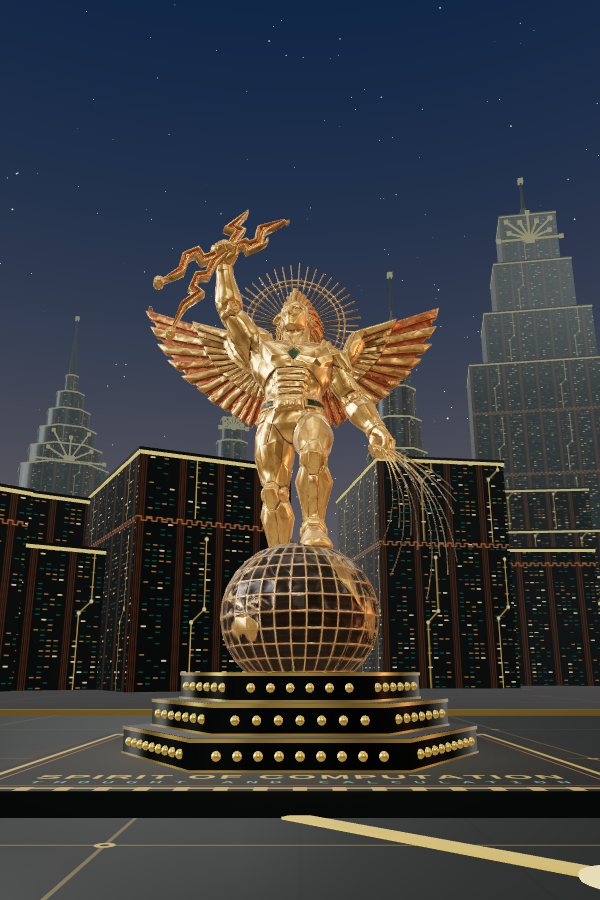
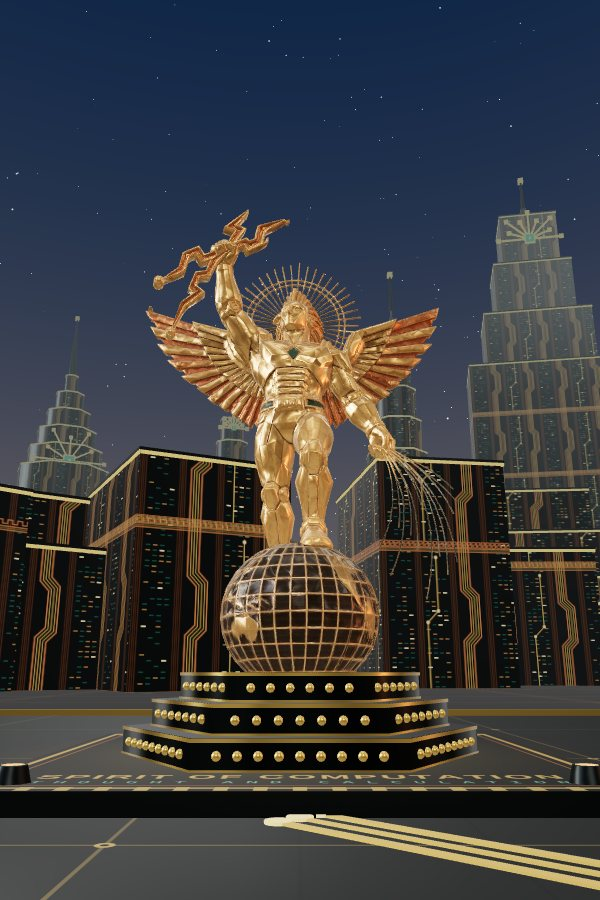
Night lamps, emerald chips on the crowns, Greek key friezes
- Statues: floodlamps at the foot, as in the Knowledge Press forest: off by
  day, fading in through dusk; lit strongest at the base and fading up the
  figure. Their studio reflections and the entrance fill dim after dark, and
  each pad gets four lamp fixtures and a pool of light that follow the sky.
- Every boot-sun crown on the towers has an emerald chip at its heart: a
  solder-green die in a gold frame with a gold core.
- Motif 14, the key route: facades now carry a square-wave rule, a running
  Greek key, or a double key routed as a pair, a whole number of keys to the
  tile so it runs unbroken round a tower.

Claude-Session: https://claude.ai/code/session_01A6Jj3xDDNxQ4ycFxda9Tv7

diff --git a/web/src/scene/Statue.tsx b/web/src/scene/Statue.tsx
@@ -30,19 +30,42 @@ function plinthHeight(s: Spirit): number {
  * ground and fading up the figure. No real lights, so nine statues cost no
  * more to shade than one.
  */
+/**
+ * The night lamps, as in the Knowledge Press forest: off by day, fading in
+ * through dusk, full once the sky is dark. One shared uniform, so every
+ * statue's floodlighting follows the sky at once.
+ */
+export const NIGHT_LAMP = { value: 0 };
+/** Statue materials whose reflections dim at night, so the lamps carry them. */
+const LIT = new Set<MeshStandardMaterial>();
+
+/** Follows the sky: the lamps come up as it darkens and the studio reflections go down. */
+export function NightLamps() {
+  const daylight = useStore((st) => st.sky.daylight);
+  useEffect(() => {
+    NIGHT_LAMP.value = Math.min(1, Math.max(0, (0.6 - daylight) / 0.45));
+    for (const m of LIT) m.envMapIntensity = (m.userData.envDay ?? 1.1) * (0.3 + 0.7 * daylight);
+  }, [daylight]);
+  return null;
+}
+
 function uplight(m: MeshStandardMaterial, base: number, strength: number, falloff: number, cleanSteps = false) {
+  m.userData.envDay = m.envMapIntensity;
+  LIT.add(m);
   m.onBeforeCompile = (shader) => {
-    shader.uniforms.uplight = { value: strength };
+    // Floodlamps at the foot: their light, strongest at the base, fades up the figure.
+    shader.uniforms.uplight = NIGHT_LAMP;
+    shader.uniforms.uplightStrength = { value: strength };
     shader.uniforms.uplightBase = { value: base };
     shader.uniforms.uplightFalloff = { value: falloff };
     shader.vertexShader = "varying float vUplightY;\nvarying vec3 vObj;\nvarying vec3 vAxX;\nvarying vec3 vAxY;\nvarying vec3 vAxZ;\n" + shader.vertexShader.replace(
       "#include <begin_vertex>",
       "#include <begin_vertex>\n  vUplightY = (modelMatrix * vec4(transformed, 1.0)).y;\n  vObj = transformed;\n  vAxX = normalMatrix * vec3(1.0, 0.0, 0.0); vAxY = normalMatrix * vec3(0.0, 1.0, 0.0); vAxZ = normalMatrix * vec3(0.0, 0.0, 1.0);",
     );
-    let frag = "uniform float uplight; uniform float uplightBase; uniform float uplightFalloff; varying float vUplightY; varying vec3 vObj; varying vec3 vAxX; varying vec3 vAxY; varying vec3 vAxZ;\n" +
+    let frag = "uniform float uplight; uniform float uplightStrength; uniform float uplightBase; uniform float uplightFalloff; varying float vUplightY; varying vec3 vObj; varying vec3 vAxX; varying vec3 vAxY; varying vec3 vAxZ;\n" +
       shader.fragmentShader.replace(
         "#include <emissivemap_fragment>",
-        "#include <emissivemap_fragment>\n  totalEmissiveRadiance += vec3(1.0, 0.86, 0.66) * uplight * exp(-max(vUplightY - uplightBase, 0.0) / uplightFalloff) * diffuseColor.rgb;",
+        "#include <emissivemap_fragment>\n  totalEmissiveRadiance += vec3(1.0, 0.86, 0.66) * uplight * uplightStrength * exp(-max(vUplightY - uplightBase, 0.0) / uplightFalloff) * diffuseColor.rgb;",
       );
     if (cleanSteps) {
       // Ad Astra's steps: Meshy's granite smears at 24 m. On the staircase only
@@ -139,7 +162,7 @@ function useModel(s: Spirit): Loaded | null {
           const mats = Array.isArray(o.material) ? o.material : [o.material];
           for (const m of mats) if (m instanceof MeshStandardMaterial) {
             m.envMapIntensity = 1.1;
-            uplight(m, s.base, 0.55, 4.5, s.id === "astra");
+            uplight(m, s.base, 0.8, Math.max(4.5, s.height * 0.38), s.id === "astra");
             if (op) {
               // Cut away the model's own plinth; the clean one drawn in code takes its place.
               m.clippingPlanes = [new Plane(new Vector3(0, 1, 0), -(s.base + PAD_TOP + plinthHeight(s)))];
@@ -305,6 +328,9 @@ function StatueBody({ s }: { s: Spirit }) {
   }, []);
   const padTop = useMemo(() => (fontsReady ? padTexture(s.name, s.allegory) : padTex), [fontsReady, s, padTex]);
   const pool = useMemo(() => glowTexture("rgba(255,226,170,0.9)"), []);
+  const daylight = useStore((st) => st.sky.daylight);
+  const night = Math.min(1, Math.max(0, (0.6 - daylight) / 0.45));
+  const lens = useMemo(() => new Color("#3a2c1c").lerp(new Color("#ffdca6"), night), [night]);
   const group = useRef<Group>(null);
   const invalidate = useThree((st) => st.invalidate);
   useEffect(() => invalidate(), [model, invalidate]);
@@ -325,11 +351,25 @@ function StatueBody({ s }: { s: Spirit }) {
         <planeGeometry args={[2 * p, 2 * p]} />
         <meshStandardMaterial map={padTop} metalness={0.35} roughness={0.38} />
       </mesh>
-      {/* Pool of light from the floodlamps at the foot. */}
-      <mesh rotation-x={-Math.PI / 2} position={[0, 0.31, 0]}>
-        <planeGeometry args={[2 * p + 4, 2 * p + 4]} />
-        <meshBasicMaterial map={pool} blending={AdditiveBlending} transparent depthWrite={false} opacity={0.22} color={new Color("#ffcf8a")} />
-      </mesh>
+      {/* Pool of light from the floodlamps at the foot, and the lamps themselves at the pad's corners. */}
+      {night > 0.01 ? (
+        <mesh rotation-x={-Math.PI / 2} position={[0, 0.31, 0]}>
+          <planeGeometry args={[2 * p + 4, 2 * p + 4]} />
+          <meshBasicMaterial map={pool} blending={AdditiveBlending} transparent depthWrite={false} opacity={0.26 * night} color={new Color("#ffcf8a")} />
+        </mesh>
+      ) : null}
+      {[[1, 1], [1, -1], [-1, 1], [-1, -1]].map(([a, b], i) => (
+        <group key={i} position={[a! * (p - 0.7), 0.3, b! * (p - 0.7)]}>
+          <mesh position={[0, 0.11, 0]}>
+            <cylinderGeometry args={[0.2, 0.26, 0.22, 8]} />
+            <meshStandardMaterial color={C.panel} metalness={0.6} roughness={0.4} />
+          </mesh>
+          <mesh position={[0, 0.225, 0]} rotation-x={-Math.PI / 2}>
+            <circleGeometry args={[0.16, 8]} />
+            <meshBasicMaterial color={lens} toneMapped={false} />
+          </mesh>
+        </group>
+      ))}
       <group position={[0, PAD_TOP, showModel && s.ownPlinth ? 0 : -0.4]}>
         {showModel ? <primitive object={model} /> : s.render ? <FramedRender s={s} /> : <Reserved s={s} />}
         {showModel && s.ownPlinth ? <HexPlinth height={plinthHeight(s)} tiers={tiers} /> : null}

diff --git a/web/src/scene/Plaza.tsx b/web/src/scene/Plaza.tsx
@@ -392,7 +392,7 @@ function Terrace() {
 
 type Kind = "setback" | "slab" | "spire" | "hall" | "block";
 export type Tower = { kind: Kind; x: number; z: number; w: number; d: number; h: number; tiers: number; variant: number; hero?: boolean };
-type Parts = { facade: BufferGeometry[]; glow: BufferGeometry[]; caps: BufferGeometry[] };
+type Parts = { facade: BufferGeometry[]; glow: BufferGeometry[]; caps: BufferGeometry[]; chips: BufferGeometry[] };
 
 /** Scale a box's UVs so the 16 m facade tile wraps each face at true size. */
 function facadeBox(w: number, h: number, d: number) {
@@ -420,7 +420,7 @@ function octTier(R: number, th: number) {
  * boot-sun fan) in a different massing, like a Deco skyline of siblings.
  */
 function towerGeometry(t: Tower): Parts {
-  const out: Parts = { facade: [], glow: [], caps: [] };
+  const out: Parts = { facade: [], glow: [], caps: [], chips: [] };
   // Face the plaza: local -z points at the centre.
   const yaw = Math.atan2(t.x, t.z);
   const place = (g: BufferGeometry, x: number, y: number, z: number) =>
@@ -439,7 +439,10 @@ function towerGeometry(t: Tower): Parts {
       out.glow.push(place(new BoxGeometry(ray, len, 0.3).translate(0, len / 2, 0).rotateZ(a - Math.PI / 2), 0, y, -face - 0.4));
       out.glow.push(place(new BoxGeometry(ray * 2.4, ray * 2.4, 0.4).translate(Math.cos(a) * len, Math.sin(a) * len, 0), 0, y, -face - 0.45));
     }
-    out.glow.push(place(new BoxGeometry(r * 0.3, r * 0.3, 0.5), 0, y, -face - 0.5));
+    // At its heart, the emerald chip: a solder-green die in a gold frame, a gold core.
+    out.glow.push(place(new BoxGeometry(r * 0.34, r * 0.34, 0.5), 0, y, -face - 0.5));
+    out.chips.push(place(new BoxGeometry(r * 0.26, r * 0.26, 0.5), 0, y, -face - 0.62));
+    out.glow.push(place(new BoxGeometry(r * 0.08, r * 0.08, 0.5), 0, y, -face - 0.72));
   };
   // A stepped mast tipped with a glowing pad.
   const mast = (y: number, base: number, h: number) => {
@@ -564,17 +567,20 @@ function Skyline() {
     const facades: BufferGeometry[][] = [[], [], []];
     const glow: BufferGeometry[] = [];
     const caps: BufferGeometry[] = [];
+    const chips: BufferGeometry[] = [];
     for (const t of towers) {
       const g = towerGeometry(t);
       facades[t.variant]!.push(...g.facade);
       glow.push(...g.glow);
       caps.push(...g.caps);
+      chips.push(...g.chips);
     }
     const strip = (gs: BufferGeometry[]) => gs.map((g) => (g.index ? g.toNonIndexed() : g));
     return {
       facades: facades.map((gs) => mergeGeometries(strip(gs))!),
       glow: mergeGeometries(strip(glow))!,
       caps: mergeGeometries(strip(caps))!,
+      chips: mergeGeometries(strip(chips))!,
     };
   }, []);
   const mats = useMemo(() => {
@@ -583,6 +589,7 @@ function Skyline() {
       facades: tex.map((t) => new MeshStandardMaterial({ color: "#05080a", roughness: 0.25, metalness: 0.6, emissive: "#ffffff", emissiveMap: t, emissiveIntensity: 0.85 })),
       glow: new MeshBasicMaterial({ color: new Color(C.gold).multiplyScalar(1.15) }),
       caps: new MeshStandardMaterial({ color: "#0b100e", roughness: 0.4, metalness: 0.6 }),
+      chips: new MeshBasicMaterial({ color: new Color(C.green).multiplyScalar(1.5) }),
     };
   }, []);
   // The city's lights dim by day; its glass catches the sky instead.
@@ -594,12 +601,14 @@ function Skyline() {
     mats.facades.forEach((m) => { m.emissiveMap?.dispose(); m.dispose(); });
     mats.glow.dispose();
     mats.caps.dispose();
+    mats.chips.dispose();
   }, [mats]);
   return (
     <group>
       {meshes.facades.map((g, i) => <mesh key={i} geometry={g} material={mats.facades[i]} />)}
       <mesh geometry={meshes.glow} material={mats.glow} />
       <mesh geometry={meshes.caps} material={mats.caps} />
+      <mesh geometry={meshes.chips} material={mats.chips} />
     </group>
   );
 }

diff --git a/web/src/scene/textures.ts b/web/src/scene/textures.ts
@@ -22,6 +22,24 @@ export function offsetPath(path: [number, number][], d: number): [number, number
   });
 }
 
+/**
+ * A running Greek key (motif 14) as a routed trace: up from the line, across,
+ * down, back, and down to the line again, every turn a right angle, repeated
+ * along [x0, x1] between heights y0 (top) and y1 (the line).
+ */
+export function greekKey(x0: number, x1: number, y0: number, y1: number): [number, number][] {
+  const s = (y1 - y0) / 4;
+  // A whole number of keys across, so the frieze runs on unbroken round a tower.
+  const n = Math.max(1, Math.round((x1 - x0) / (4 * s)));
+  const w = (x1 - x0) / (4 * n);
+  const pts: [number, number][] = [[x0, y1]];
+  for (let k = 0; k < n; k++) {
+    const x = x0 + k * 4 * w;
+    pts.push([x, y0], [x + 3 * w, y0], [x + 3 * w, y0 + 2 * s], [x + w, y0 + 2 * s], [x + w, y1], [x + 4 * w, y1]);
+  }
+  return pts;
+}
+
 /** Palette from the Art Techno rules. */
 export const C = {
   obsidian: "#0B100E",
@@ -159,13 +177,28 @@ export function facadeTexture(seed: number) {
     g.lineWidth = w;
     g.beginPath(); g.moveTo(0, y); g.lineTo(512, y); g.stroke();
   }
-  g.strokeStyle = "#c77c48";
-  g.lineWidth = 3;
-  g.beginPath();
-  for (let x = 0; x <= 512; x += 32) {
-    g.lineTo(x, 6); g.lineTo(x + 16, 6); g.lineTo(x + 16, 18); g.lineTo(x + 32, 18);
+  // The frieze along the top of the tile: a square-wave clock rule, a running
+  // Greek key (motif 14), or a double key routed as a pair, by facade.
+  const style = seed % 3;
+  if (style === 0) {
+    g.strokeStyle = "#c77c48";
+    g.lineWidth = 3;
+    g.beginPath();
+    for (let x = 0; x <= 512; x += 32) {
+      g.lineTo(x, 6); g.lineTo(x + 16, 6); g.lineTo(x + 16, 18); g.lineTo(x + 32, 18);
+    }
+    g.stroke();
+  } else {
+    const key = greekKey(0, 512, 3, 21);
+    const lines = style === 1 ? [[0, "#c77c48", 3]] : [[-1.6, "#c77c48", 2.2], [1.6, "#d4af5a", 1.4]];
+    for (const [d, col, w] of lines as [number, string, number][]) {
+      g.strokeStyle = col;
+      g.lineWidth = w;
+      g.beginPath();
+      for (const [x, y] of offsetPath(key, d)) g.lineTo(x, y);
+      g.stroke();
+    }
   }
-  g.stroke();
   return tex(c, [1, 1]);
 }
 

diff --git a/web/src/App.tsx b/web/src/App.tsx
@@ -8,7 +8,7 @@ import { Plaza } from "./scene/Plaza";
 import { hazeDensity, skyColors } from "./sky/plazaSky";
 import { useStore } from "./store";
 import { Player } from "./scene/Player";
-import { Statue } from "./scene/Statue";
+import { NightLamps, Statue } from "./scene/Statue";
 import { SPIRITS } from "./spirits";
 
 /** A soft studio environment for the gilt to reflect, and the haze, both following the sky. */
@@ -74,7 +74,7 @@ function SkyLights() {
   return (
     <>
       <primitive object={target} />
-      <hemisphereLight ref={hemi} intensity={0.55 + 0.5 * sky.daylight} />
+      <hemisphereLight ref={hemi} intensity={0.35 + 0.7 * sky.daylight} />
       <directionalLight
         ref={main}
         target={target}
@@ -95,7 +95,8 @@ function SkyLights() {
       {/* Fill from behind the entrance, so faces read as you walk in. */}
       <directionalLight
         position={[30, 45, 70]}
-        intensity={1.1 * (1 - 0.75 * sky.daylight)}
+        // Softer after dark, when the floodlamps carry the statues.
+        intensity={0.45 + 0.6 * sky.warmth}
         color="#cfe0ff"
         castShadow={!sunShadows}
         shadow-mapSize={[2048, 2048]}
@@ -125,6 +126,7 @@ export function App() {
         <Environment />
         <SkyLights />
         <SkyClock />
+        <NightLamps />
         <Plaza />
         <Craft />
         {SPIRITS.map((s) => (

diff --git a/docs/STYLE.md b/docs/STYLE.md
@@ -93,7 +93,7 @@ Materials translate one for one:
 
 ## Motif lexicon
 
-Thirteen core motifs, each a direct transposition of a Deco element. New motifs should follow the same method: keep the Deco form, swap in a compute subject.
+Fourteen core motifs, each a direct transposition of a Deco element. New motifs should follow the same method: keep the Deco form, swap in a compute subject.
 
 | # | Motif | Deco source | Construction |
 | --- | --- | --- | --- |
@@ -110,6 +110,7 @@ Thirteen core motifs, each a direct transposition of a Deco element. New motifs 
 | 11 | Graph fan | Half-fan | Edges radiating from a root node to two arcs of nodes, cross-linked |
 | 12 | Pixel corner | Stepped corner | Nested corner rules with a diagonal of shrinking pixels |
 | 13 | Bus run | Streamline speed bands | Three to eight parallel traces at one pitch, running long and straight, turning together through nested 45° bends, fanning out at the end to a staggered row of pads |
+| 14 | Key route | Greek key (meander) | A trace routed as a running key: up from the line, across, down, back, and down to the line again, every turn a right angle; doubled as a tight pair for a double key. For friezes and borders, a whole number of keys to a run |
 
 ### The bus run
 
